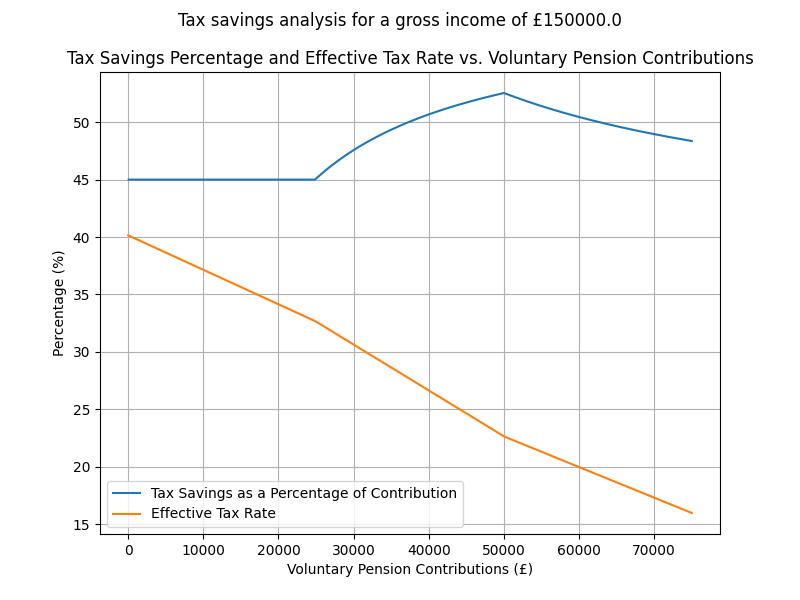
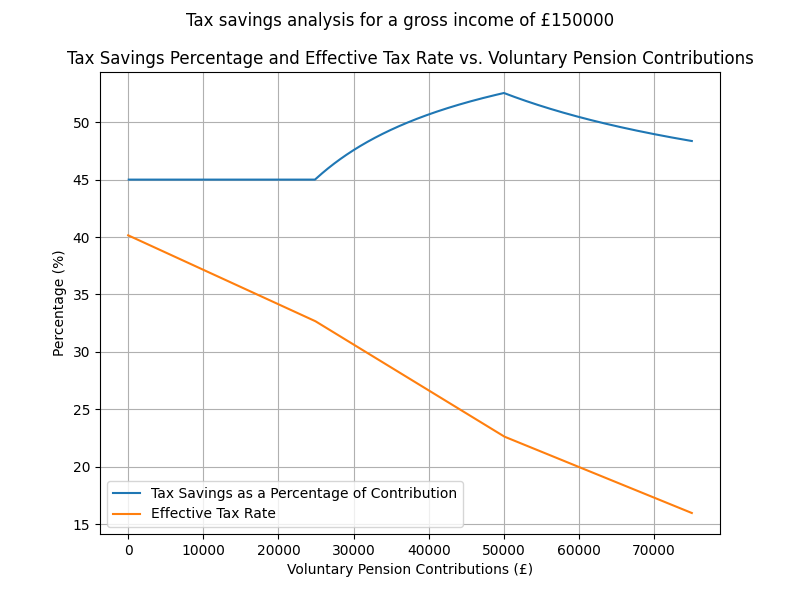
Add a function to generate example plots (#15)
Generates & saves a new set of example plots

Changed region(s): [[0.2188, 0.0, 0.7812, 0.06]]

diff --git a/uk_tax_23-24.py b/uk_tax_23-24.py
@@ -269,6 +269,11 @@ def plot_tax_savings_3d(salary_top_range=salary_top_range, max_voluntary_contrib
     else:
         plt.show()
 
+def generate_readme_graphs():
+    plot_graphs(save_plot=True)
+    plot_tax_savings_3d(save_plot=True)
+    plot_tax_savings_vs_pension_contributions(150000, save_plot=True)
+
 if __name__ == "__main__":
     if len(sys.argv) == 2:
         try:
